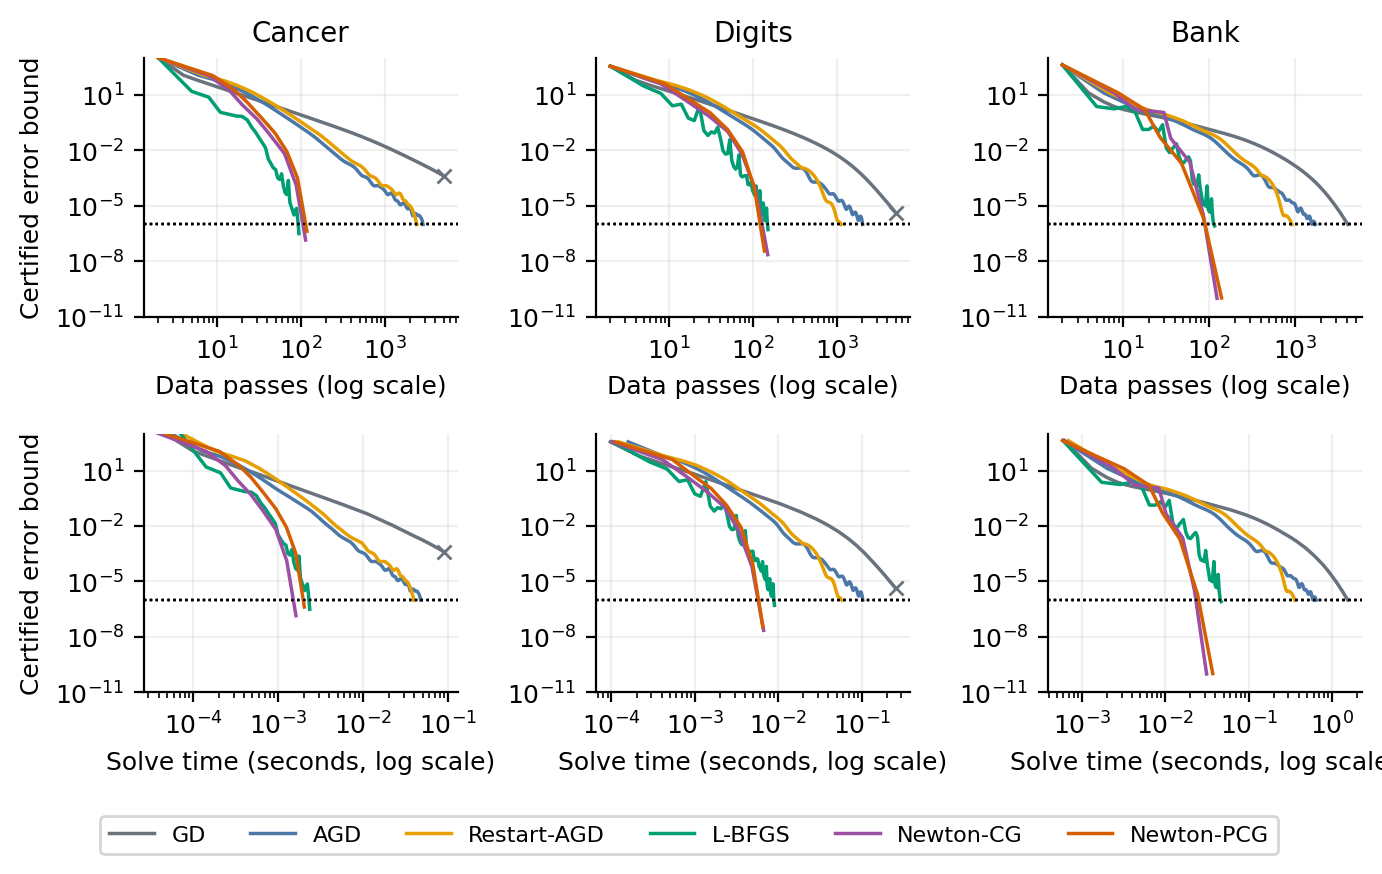
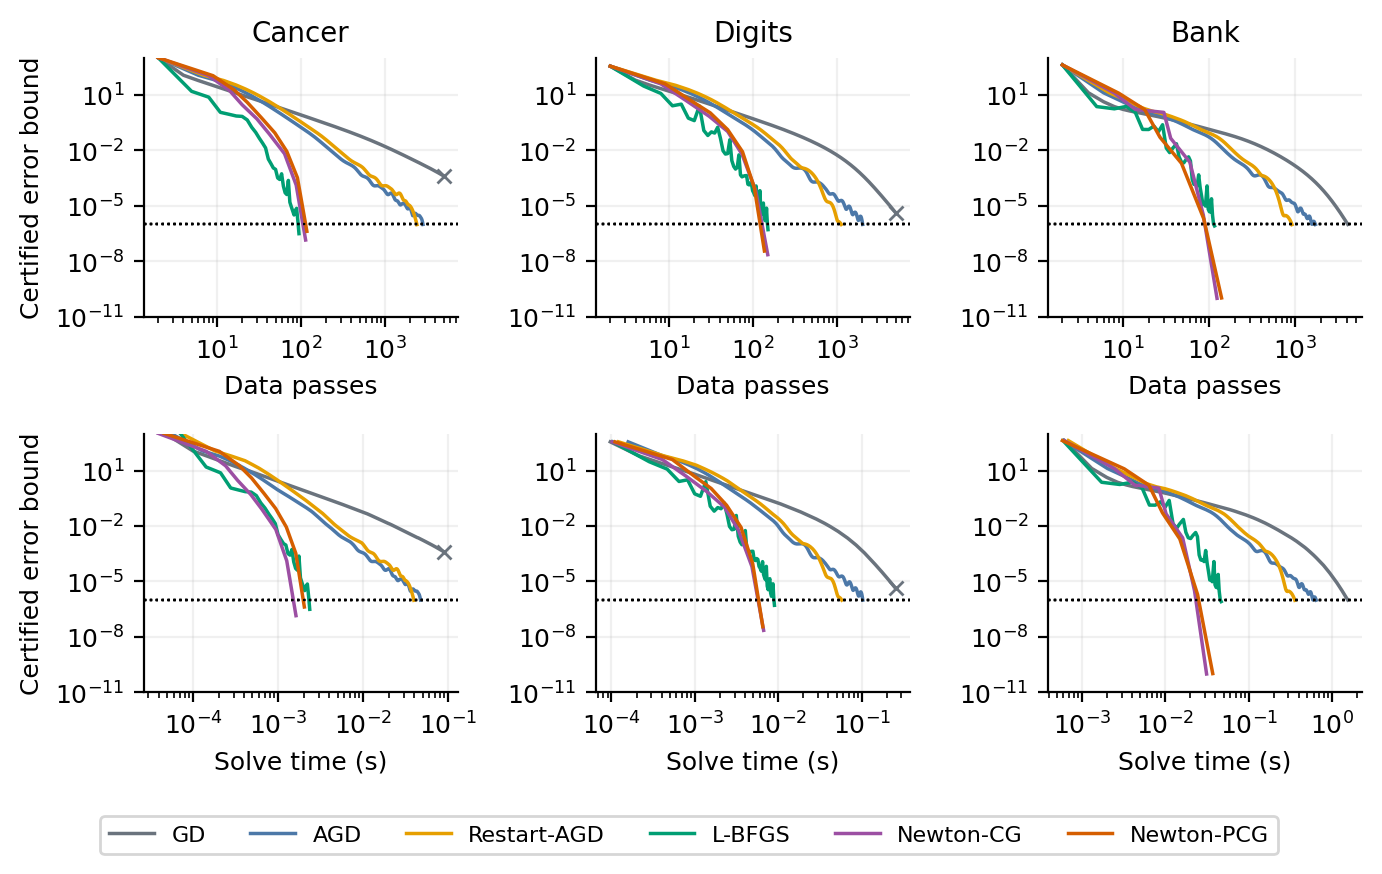
Improve figure labels and document report source rebuilding

diff --git a/analyze.py b/analyze.py
@@ -34,8 +34,8 @@ for col,n in enumerate(NAMES):
             if r['status']!='certified': ax.plot(xs[-1],ys[-1],'x',color=color,ms=5)
             ax.set_yscale('log');ax.set_xscale('log');ax.axhline(1e-6,color='black',ls=':',lw=.8)
             ax.set_ylim(1e-11,1e3);ax.grid(alpha=.18)
-    axes[0,col].set_title(n);axes[0,col].set_xlabel('Data passes (log scale)')
-    axes[1,col].set_xlabel('Solve time (seconds, log scale)')
+    axes[0,col].set_title(n);axes[0,col].set_xlabel('Data passes')
+    axes[1,col].set_xlabel('Solve time (s)')
 axes[0,0].set_ylabel('Certified error bound');axes[1,0].set_ylabel('Certified error bound')
 fig.legend(*axes[0,0].get_legend_handles_labels(),loc='lower center',ncol=6,bbox_to_anchor=(.5,-.015))
 fig.tight_layout(rect=(0,.05,1,1));save(fig,'convergence')

diff --git a/README.md b/README.md
@@ -26,8 +26,12 @@ benchmark, rename `results` to `results_original` before executing. For a small
 18-run check use `python experiment.py --quick`; it writes `results_quick/` and
 does not replace the full results. `analyze.py` intentionally reads the full
 `results/`. It writes `analysis/` figures, numerical tables and a summary.
-The LaTeX report reads tables/figures directly from this directory's analysis
-subfolder; no manually typed results need to be synchronized.
+The downloadable report source bundles an unmodified copy of the generated
+analysis tables and figures; no numerical table entries are manually typed.
+To rebuild it after new experiments, copy the contents of `analysis/` into
+the report source's `analysis/` folder, then compile `main.tex` with Tectonic
+or an appropriate LaTeX installation. The public code repository does not
+include the personal report or student ID.
 
 ## Data and attribution
 
